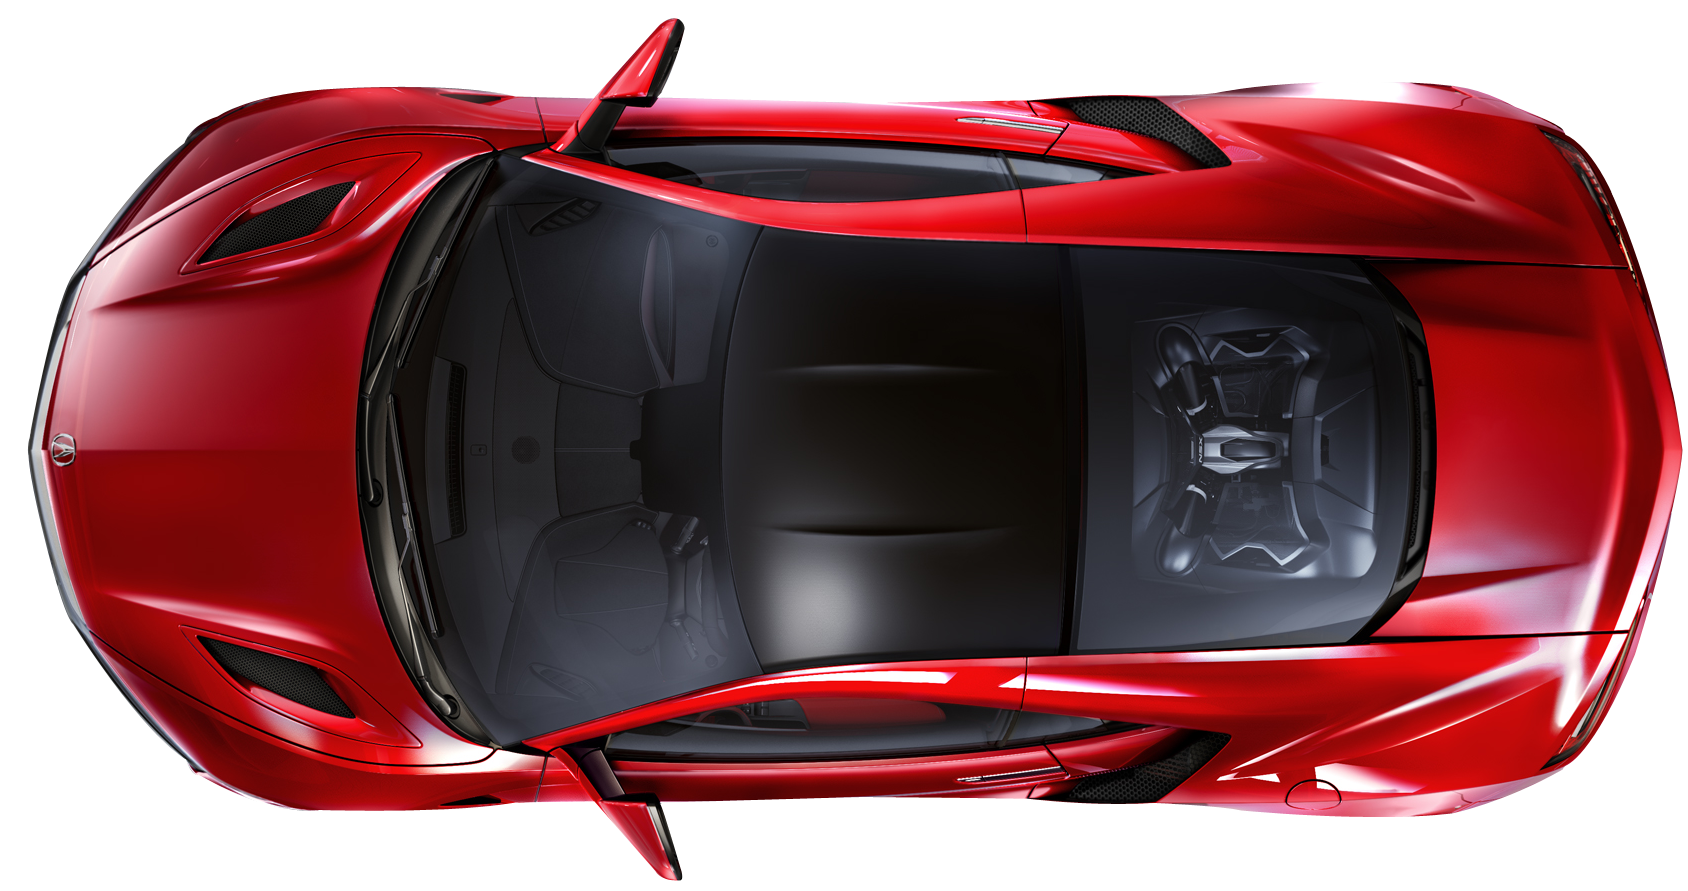
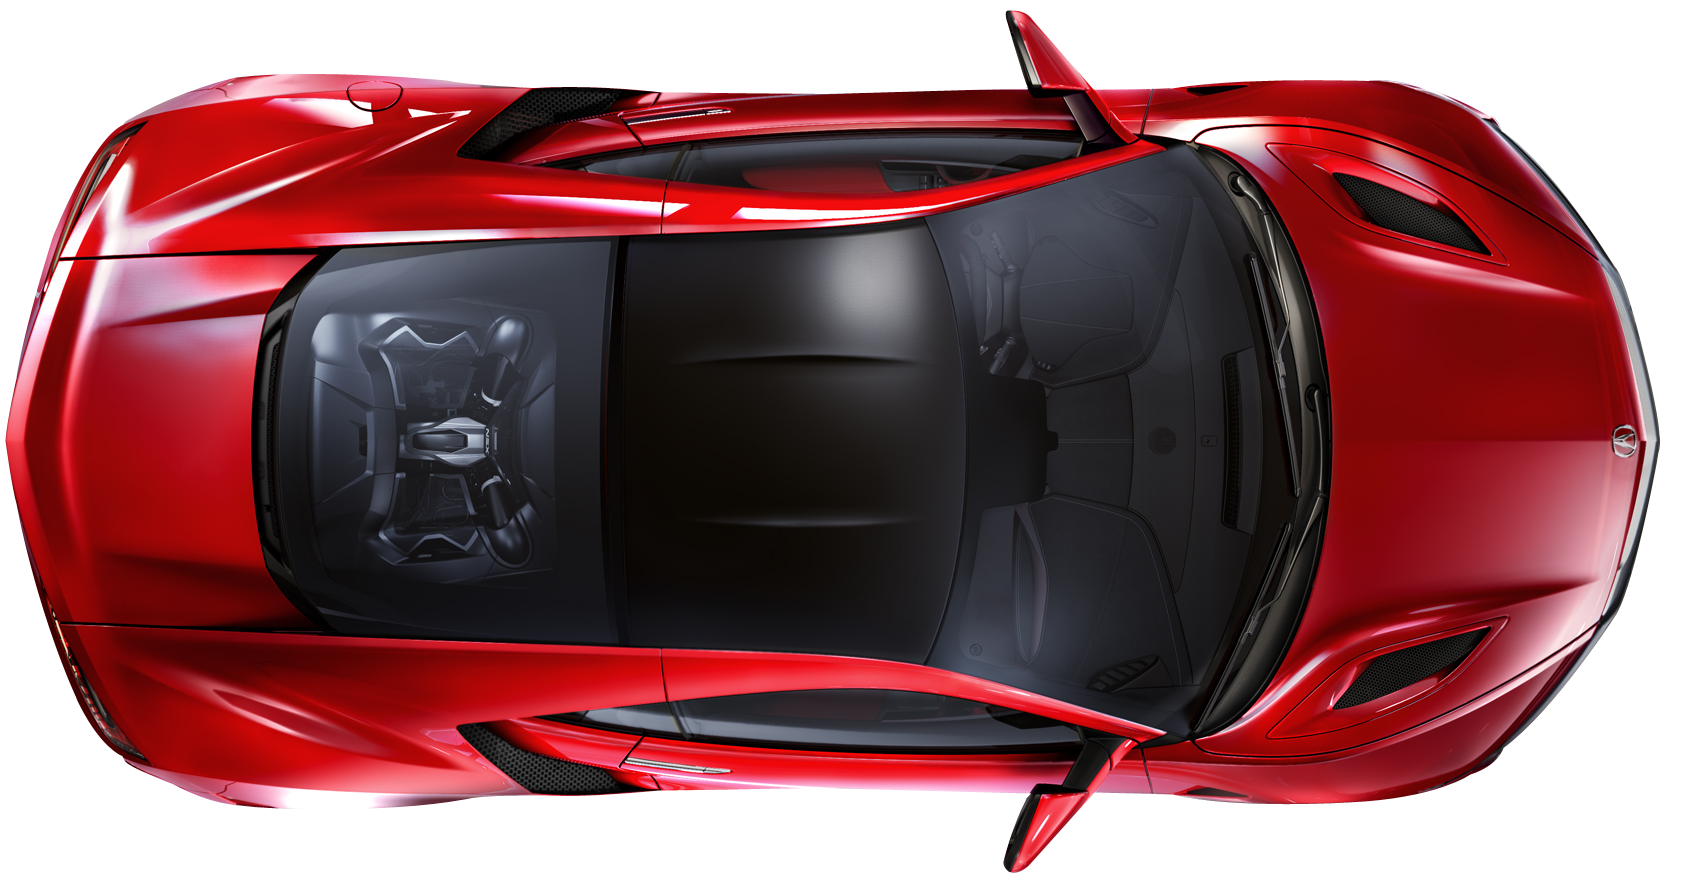
MVP vehicle model integrated

diff --git a/src/data/mod.rs b/src/data/mod.rs
@@ -11,7 +11,7 @@ use crate::Pose;
 /// Length of all [`ColumnData`] are equal, making this effectively a 2D table.
 pub type DataSet<T = f32> = Vec<ColumnData<T>>;
 
-/// Easily accessible wrapper around [`TimeTable`] to be shared by multiple widgets
+/// Easily accessible wrapper around [`TimeTable`] to be shared by multiple owners
 pub struct DataStore(pub(crate) Rc<RefCell<TimeTable<Pose>>>);
 
 impl Default for DataStore {
@@ -247,19 +247,27 @@ impl<T: Clone> TimeTable<T> {
 pub struct TimeSeries<T> {
     time: Timeline,
     data: ColumnData<T>,
+    sample_time: Time,
 }
 
 impl<T: Clone> TimeSeries<T> {
+    /// Create a new [`TimeSeries`] from given array of `time` and `data`.
     pub fn new(time: impl Into<Vec<Time>>, data: impl Into<Vec<T>>) -> Self {
         let time = Timeline::new(time.into());
         let data = ColumnData::from_vec(data);
+        let sample_time = 0.0;
 
         if time.len() != data.len() {
             panic!("Size of time and data are different!");
         }
-        Self { time, data }
+        Self {
+            time,
+            data,
+            sample_time,
+        }
     }
 
+    /// Create an empty [`TimeSeries`]
     pub fn empty() -> Self {
         Self {
             time: Timeline::default(),
@@ -267,16 +275,49 @@ impl<T: Clone> TimeSeries<T> {
                 data: Vec::new(),
                 name: None,
             },
+            sample_time: 0.0,
         }
     }
 
+    /// Sets the `sample_time` of the [`TimeSeries`]. If `add` is called with timestamp
+    /// that is smaller than the sum of the last timestamp and `sample_time`, `add` will
+    /// not push the data into the [`TimeSeries`]. When `sample_time` is set to zero (by default),
+    /// `add` will only discard data points whose timestamp is identical to the last timestamp,
+    /// i.e. it only guarantees monotonically increasing timestamps.
+    pub fn with_sample_time(mut self, sample_time: Time) -> Self {
+        self.sample_time = sample_time;
+        self
+    }
+
     pub fn add(&mut self, time: Time, element: T) {
-        self.time.add(time);
-        self.data.add(element);
+        // if let Some(last) = self.time.vec.last() {
+        //     if last + self.sample_time < time {
+        //         self.time.add(time);
+        //         self.data.add(element);
+        //     }
+        // } else {
+        //     self.time.add(time);
+        //     self.data.add(element);
+        // }
+        if self.time.vec.is_empty() {
+            self.time.add(time);
+            self.data.add(element);
+        } else {
+            if self.sample_time > 0.0 {
+                if self.time.vec.last().unwrap() + self.sample_time <= time {
+                    self.time.add(time);
+                    self.data.add(element);
+                }
+            } else {
+                if self.time.vec.last().unwrap() < &time {
+                    self.time.add(time);
+                    self.data.add(element);
+                }
+            }
+        }
     }
 
     /// Get data element for a given time
-    #[allow(dead_code)]
     pub fn get_at_time(&self, time: Time) -> Option<T> {
         self.time
             .get_index(time)
@@ -353,6 +394,24 @@ mod tests {
     fn series_to_table() {
         let ts = dummy_f32();
         let _table: TimeTable<f32> = ts.into();
+    }
+
+    #[test]
+    fn check_sample_time() {
+        let mut ts = TimeSeries::<f32>::empty();
+        ts.add(0.0, 1.0);
+        ts.add(0.0, 2.0); // This shouldn't be added
+        ts.add(0.5, 3.0);
+        ts.add(0.5, 4.0); // This shouldn't be added
+        assert_eq!(0, ts.time.get_index(0.0).unwrap());
+        assert_eq!(1, ts.time.get_index(0.5).unwrap());
+
+        let mut ts = TimeSeries::<f32>::empty().with_sample_time(0.1);
+        ts.add(0.0, 1.0);
+        ts.add(0.05, 2.0); // This shouldn't be added
+        ts.add(0.1, 3.0);
+        assert_eq!(0, ts.time.get_index(0.0).unwrap());
+        assert_eq!(1, ts.time.get_index(0.1).unwrap());
     }
 }
 

diff --git a/src/main.rs b/src/main.rs
@@ -12,10 +12,12 @@ use nannou::lyon::path::PathEvent;
 use nannou::{color::rgb_u32, rand::thread_rng};
 use nannou::{prelude::*, rand::prelude::SliceRandom};
 use nannou_egui::{self, egui, Egui};
+use vehicle::{HasVehicleState, Vehicle};
 
 pub use crate::appearance::{Color, Visual, WithVisual};
 pub use crate::geom::Path;
 pub use crate::geom::{pt, Angle, Point, Pose, Rect, Size, Spatial, Vector, WithSpatial};
+use crate::vehicle::vehicle;
 
 mod appearance;
 mod data;
@@ -53,7 +55,9 @@ struct Model {
     plot_demo: PlotDemo,
     image: wgpu::Texture,
     svg: SvgPath,
+    vehicle: Vehicle,
 }
+
 #[derive(Clone)]
 struct SvgPath {
     events: Vec<PathEvent>,
@@ -225,6 +229,13 @@ fn model(app: &App) -> Model {
     // let image = image::open(img_path).unwrap();
     let image = wgpu::Texture::from_path(app, img_path).unwrap();
 
+    let mut vehicle = vehicle();
+    let now = std::time::Instant::now();
+    for _ in 0..100000 {
+        vehicle.step_full(20. * PI / 180.);
+    }
+    println!("{}", now.elapsed().as_micros());
+
     Model {
         circles: Vec::new(),
         egui,
@@ -236,6 +247,7 @@ fn model(app: &App) -> Model {
         plot_demo,
         image,
         svg: svg.unwrap(),
+        vehicle,
     }
 }
 
@@ -282,7 +294,7 @@ fn update(_app: &App, model: &mut Model, update: Update) {
     plot_demo.show(&ctx, &mut true);
 }
 
-fn raw_window_event(_app: &App, model: &mut Model, event: &nannou::winit::event::WindowEvent) {
+fn raw_window_event(app: &App, model: &mut Model, event: &nannou::winit::event::WindowEvent) {
     model.egui.handle_raw_event(event);
 }
 
@@ -300,11 +312,18 @@ fn view(app: &App, model: &Model, frame: Frame) {
 
     let e = model.svg.events.iter().cloned();
 
-    let img_size = model.image.size();
-    let scale = 5.0;
-    draw.texture(&model.image)
-        .z_turns(0.125)
-        .w_h((img_size[0] as f32) / scale, (img_size[1] as f32) / scale);
+    if let Some(state) = model.vehicle.history.get_at_time(app.time) {
+        let zoom = 10.0;
+        let pos = state.position() * zoom;
+        let ang = state.angle();
+        let img_size = model.image.size();
+        let scale = 378.0 / zoom;
+
+        draw.texture(&model.image)
+            .x_y(pos.x, pos.y)
+            .z_radians(ang)
+            .w_h((img_size[0] as f32) / scale, (img_size[1] as f32) / scale);
+    }
 
     draw.path().fill().color(WHITE).events(e).x_y(0.0, 0.0);
 

diff --git a/src/vehicle/mod.rs b/src/vehicle/mod.rs
@@ -17,8 +17,8 @@ pub use self::info::{HasVehicleInfo, VehicleInfo};
 pub use self::state::{HasVehicleState, PoseUpdate, VehicleState};
 pub use self::tire::{HasTire, Tire};
 
+use crate::data::{TimeSeries, TimeTable};
 use crate::geom::{Angle, Point};
-// use crate::logging::Log;
 use crate::{Spatial, WithSpatial, S};
 
 pub fn vehicle() -> Vehicle {
@@ -32,7 +32,7 @@ pub struct Vehicle {
     dynamics: Model,
     speed_controller: PID,
     pub t: S,
-    // pub history: Log,
+    pub history: TimeSeries<VehicleState>,
 }
 
 impl Vehicle {
@@ -40,8 +40,7 @@ impl Vehicle {
         let mut vehicle_info = VehicleInfo::new();
         let dynamics = BicycleFull::new(&mut vehicle_info).into();
         let t = 0.0;
-        // let history = Log::new();
-        let P = 100000.0;
+        let P = 10000.0;
         let I = 00.0;
         let D = 00.0;
         let speed_controller = PID::new(P, I, D, vehicle_info.velocity());
@@ -50,7 +49,7 @@ impl Vehicle {
             speed_controller,
             dynamics,
             t,
-            // history,
+            history: TimeSeries::empty().with_sample_time(0.01),
         }
     }
 
@@ -60,14 +59,8 @@ impl Vehicle {
     }
 
     fn update_history(&mut self) {
-        let t = self.t;
-        let x = self.position().x;
-        let y = self.position().y;
-        let heading = self.angle();
-        let vel = self.velocity();
-        let lat_vel = self.vel_lat();
-        let yaw_rate = self.yaw_rate();
-        // self.history.push(t, x, y, heading, vel, lat_vel, yaw_rate);
+        let state = *self.state();
+        self.history.add(self.t, state);
     }
 
     pub fn step_simple(&mut self, rwa: S) {

diff --git a/src/vehicle/state.rs b/src/vehicle/state.rs
@@ -2,7 +2,7 @@
 use crate::S;
 use crate::{pt, Spatial, Visual, WithSpatial, WithVisual};
 
-#[derive(Debug)]
+#[derive(Debug, Clone, Copy)]
 pub struct VehicleState {
     Vx: S,
     Vy: S,
@@ -11,11 +11,17 @@ pub struct VehicleState {
     RWA: S,
     dPSI: S,
     spatial: Spatial,
-    visual: Visual,
+    // visual: Visual,
 }
 
 impl VehicleState {
     pub fn new() -> Self {
+        Self::default()
+    }
+}
+
+impl Default for VehicleState {
+    fn default() -> Self {
         Self {
             Vx: 30.0,
             Vy: 0.0,
@@ -24,7 +30,7 @@ impl VehicleState {
             Fxr: 0.0,
             dPSI: 0.0,
             spatial: Spatial::default(),
-            visual: Visual::default(),
+            // visual: Visual::default(),
         }
     }
 }
@@ -38,14 +44,14 @@ impl WithSpatial for VehicleState {
     }
 }
 
-impl WithVisual for VehicleState {
-    fn get(&self) -> &Visual {
-        &self.visual
-    }
-    fn get_mut(&mut self) -> &mut Visual {
-        &mut self.visual
-    }
-}
+// impl WithVisual for VehicleState {
+//     fn get(&self) -> &Visual {
+//         &self.visual
+//     }
+//     fn get_mut(&mut self) -> &mut Visual {
+//         &mut self.visual
+//     }
+// }
 
 pub trait PoseUpdate {
     fn update_pose(&mut self, dt: S);

diff --git a/src/geom/mod.rs b/src/geom/mod.rs
@@ -9,7 +9,7 @@ pub use property::position::{pt, Point, Vector};
 pub use property::rect::Rect;
 pub use property::size::Size;
 
-#[derive(Debug)]
+#[derive(Debug, Clone, Copy)]
 pub struct Spatial {
     position: Point,
     orientation: Angle,

diff --git a/src/appearance/mod.rs b/src/appearance/mod.rs
@@ -51,7 +51,7 @@ impl Default for Stroke {
     }
 }
 
-#[derive(Debug)]
+#[derive(Debug, Clone)]
 pub enum Visual {
     Fill(Fill),
     Stroke(Stroke),
